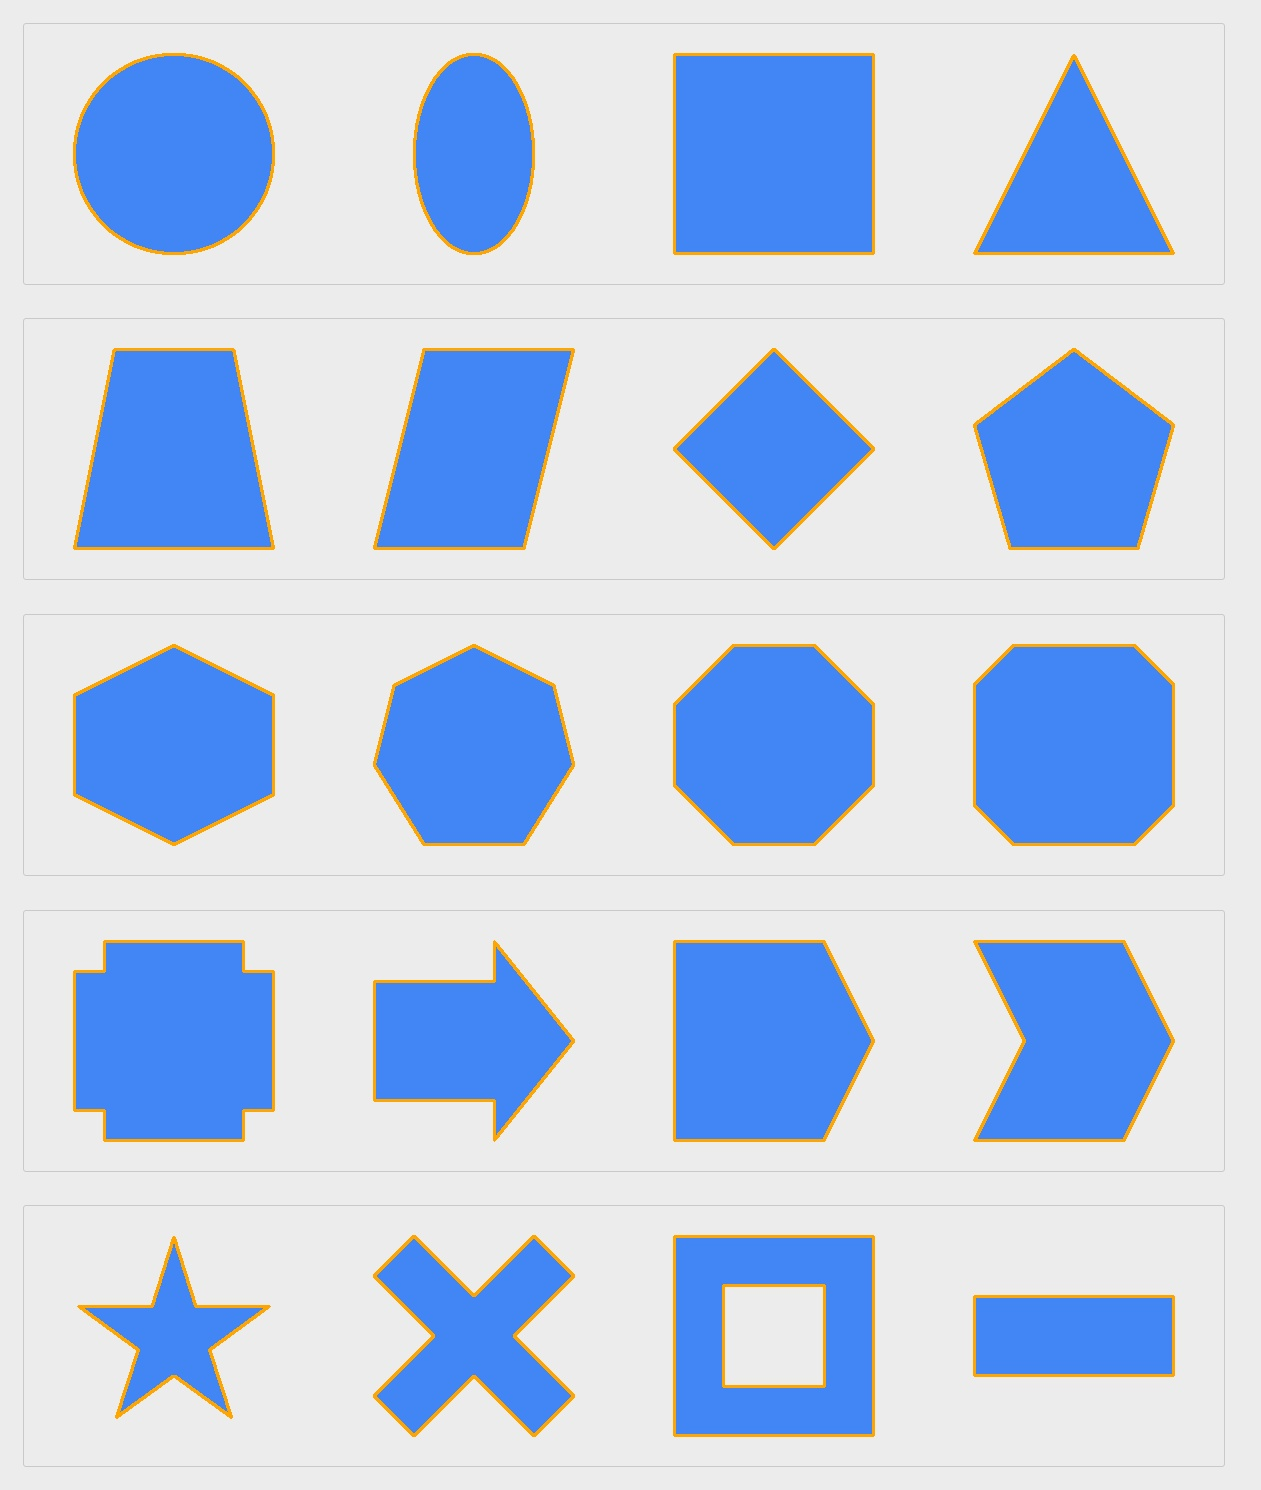
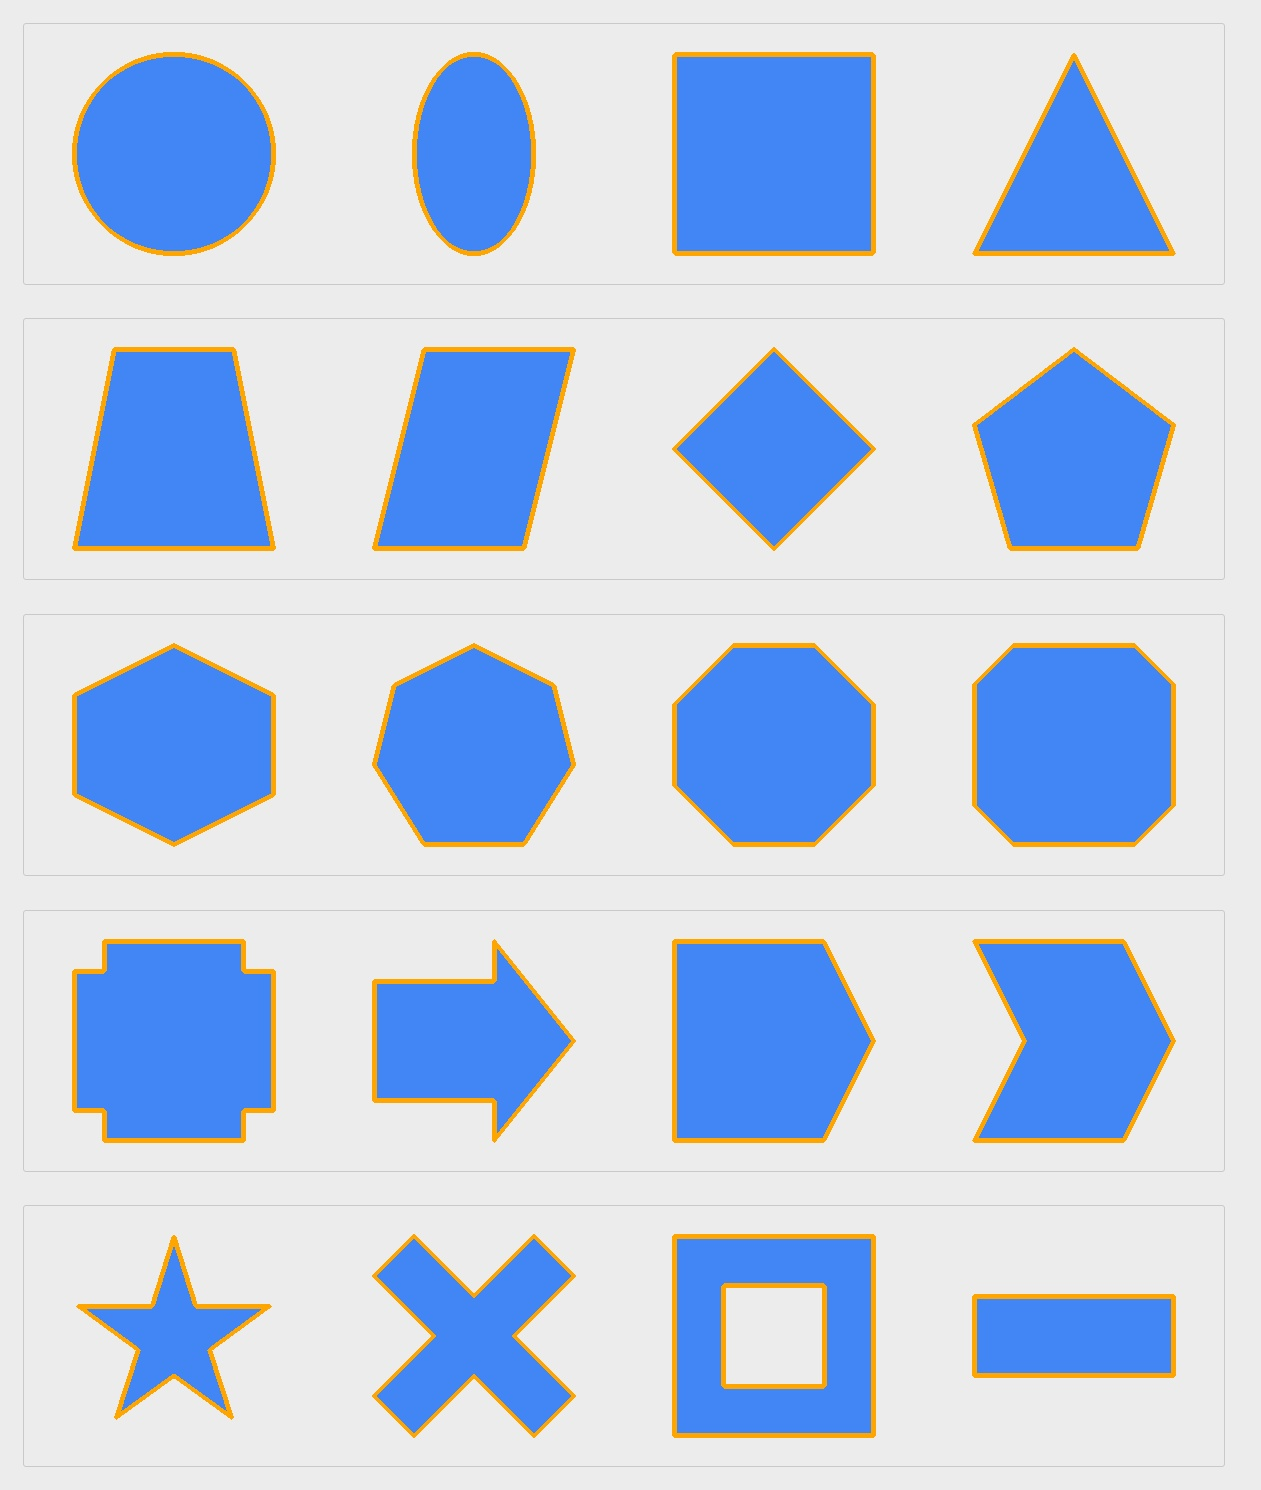
rm init

diff --git a/app.py b/app.py
@@ -26,8 +26,8 @@ class ContourDetection:
 
         _, binaryImage = cv2.threshold(grayImage, 200, 255, cv2.THRESH_BINARY_INV)
 
-        contors = self.cvtContour(binaryImage)
-        cv2.drawContours(self.image, contors, -1, ORANGE, 2)
+        contours = self.cvtContour(binaryImage)
+        cv2.drawContours(self.image, contours, -1, ORANGE, 4)
 
         cv2.imshow("YOLO Object Detection", self.image)
         cv2.waitKey(0)
